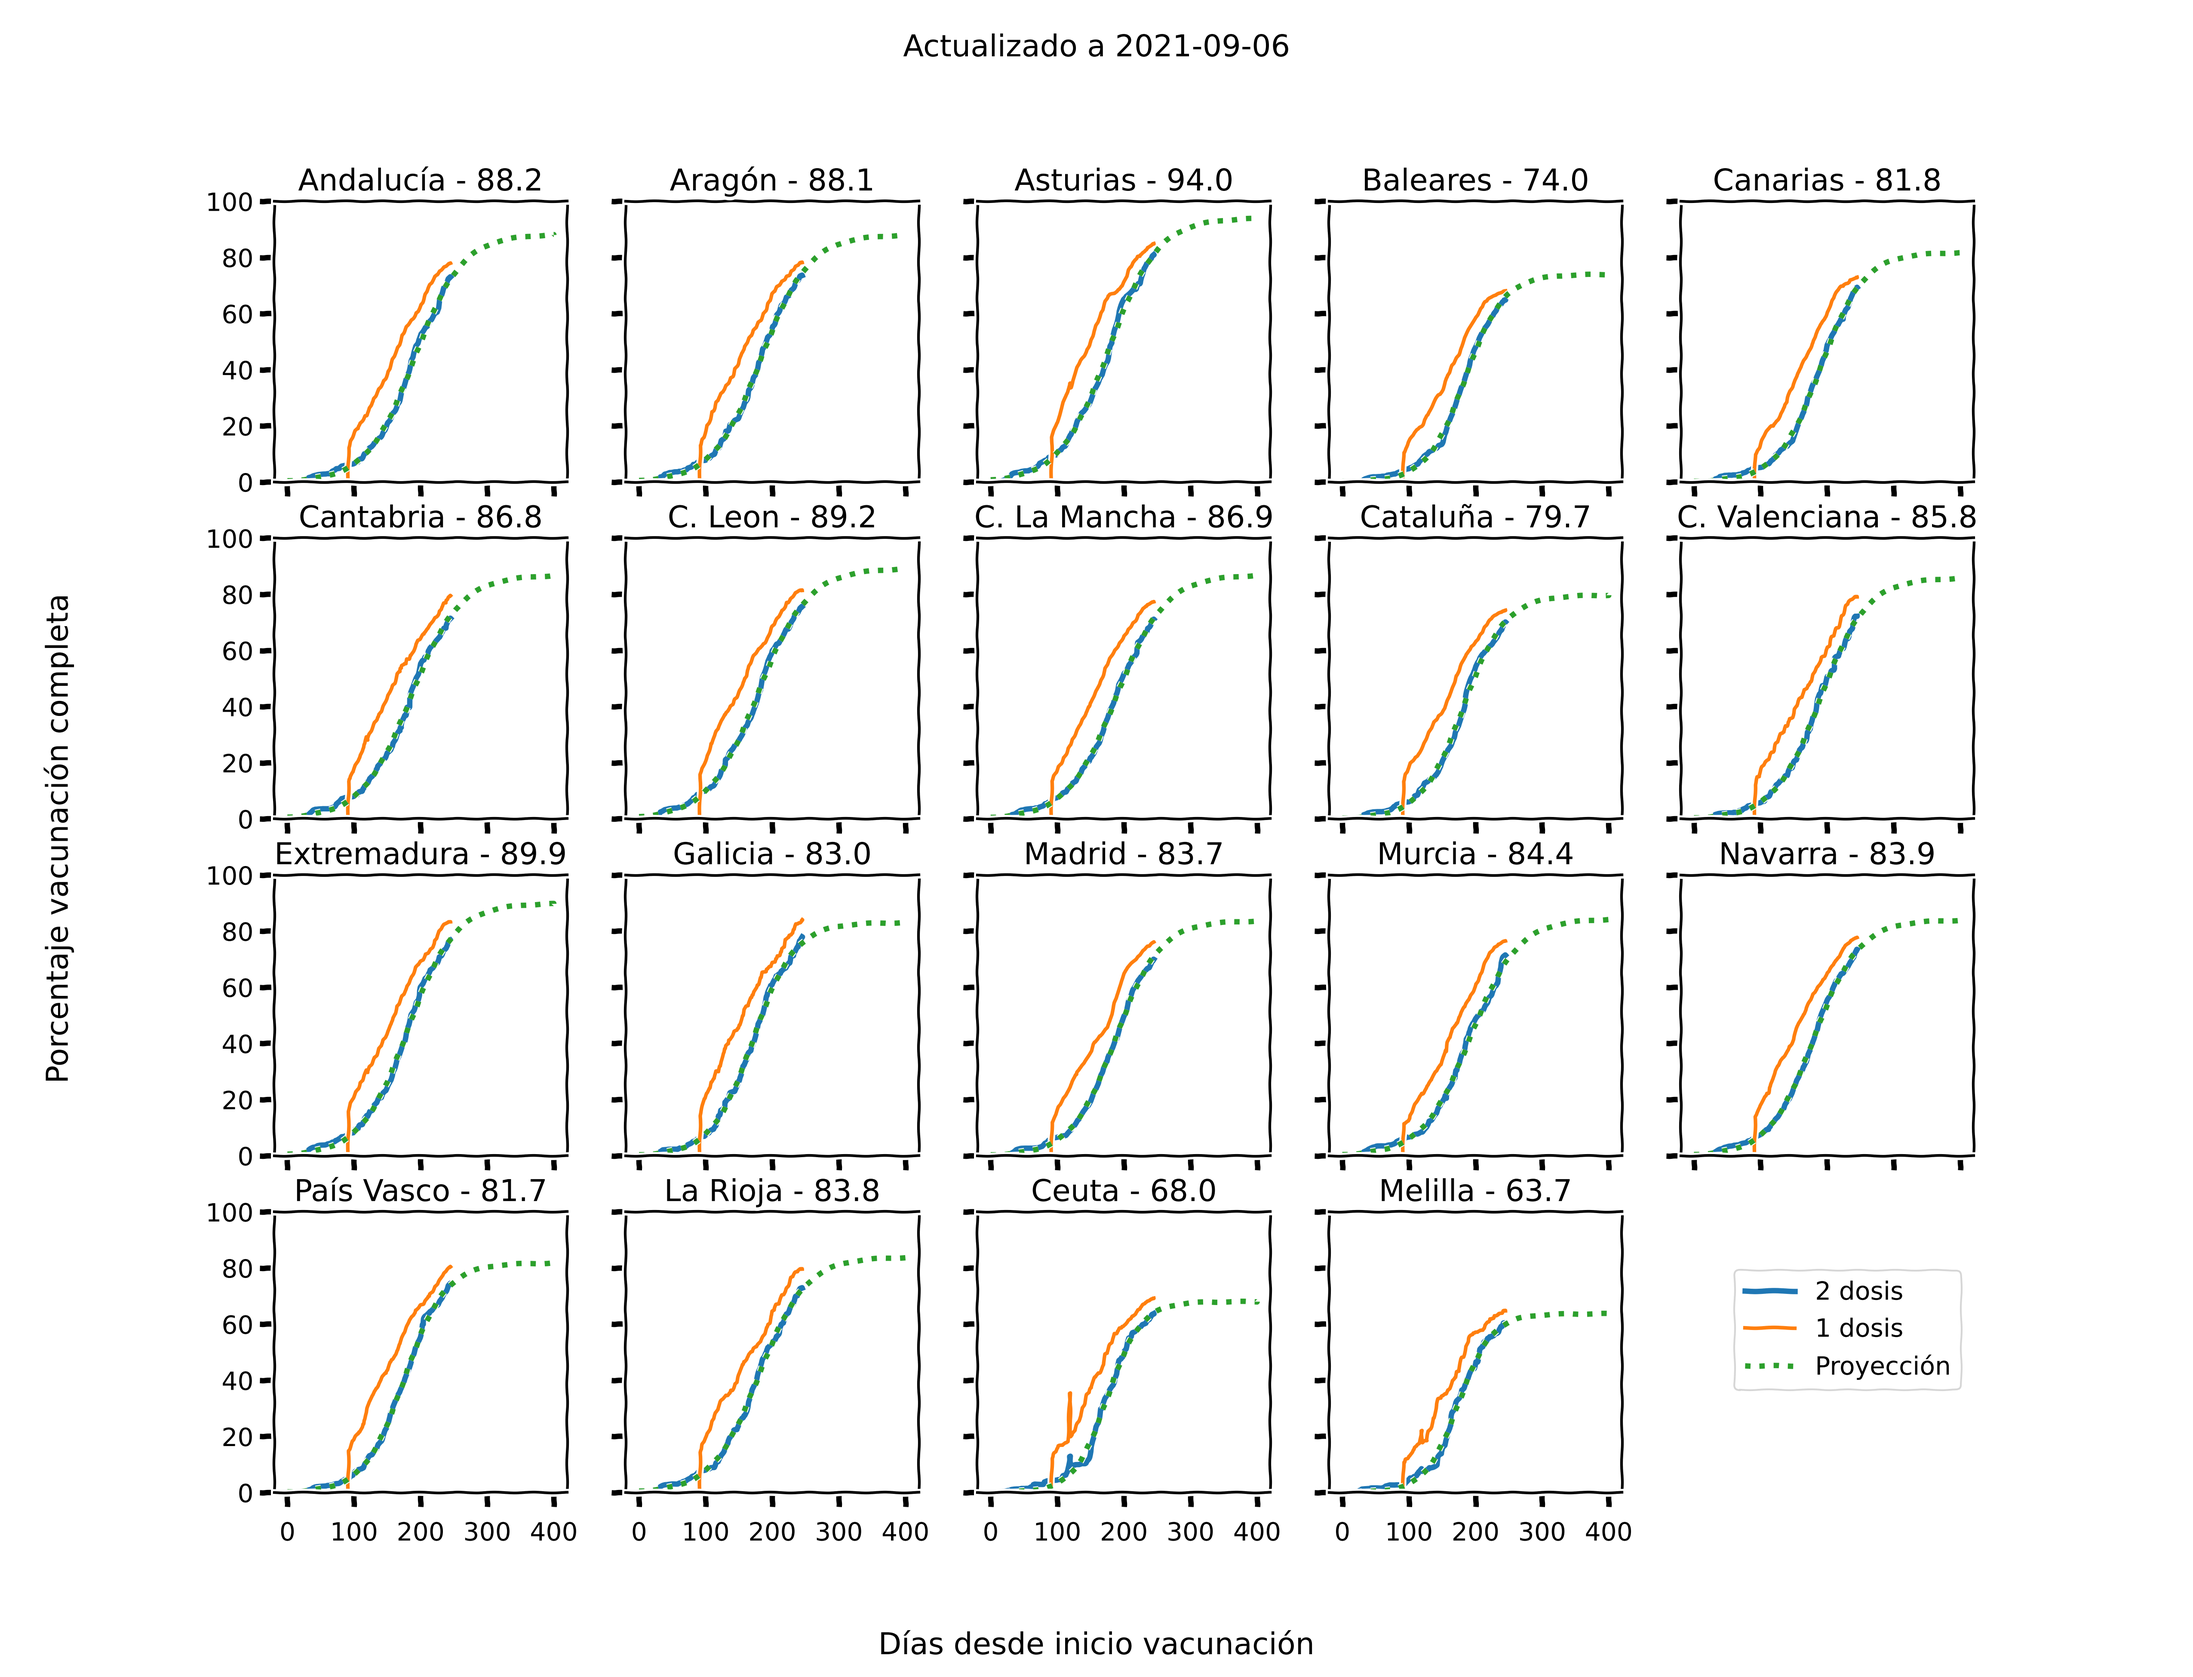
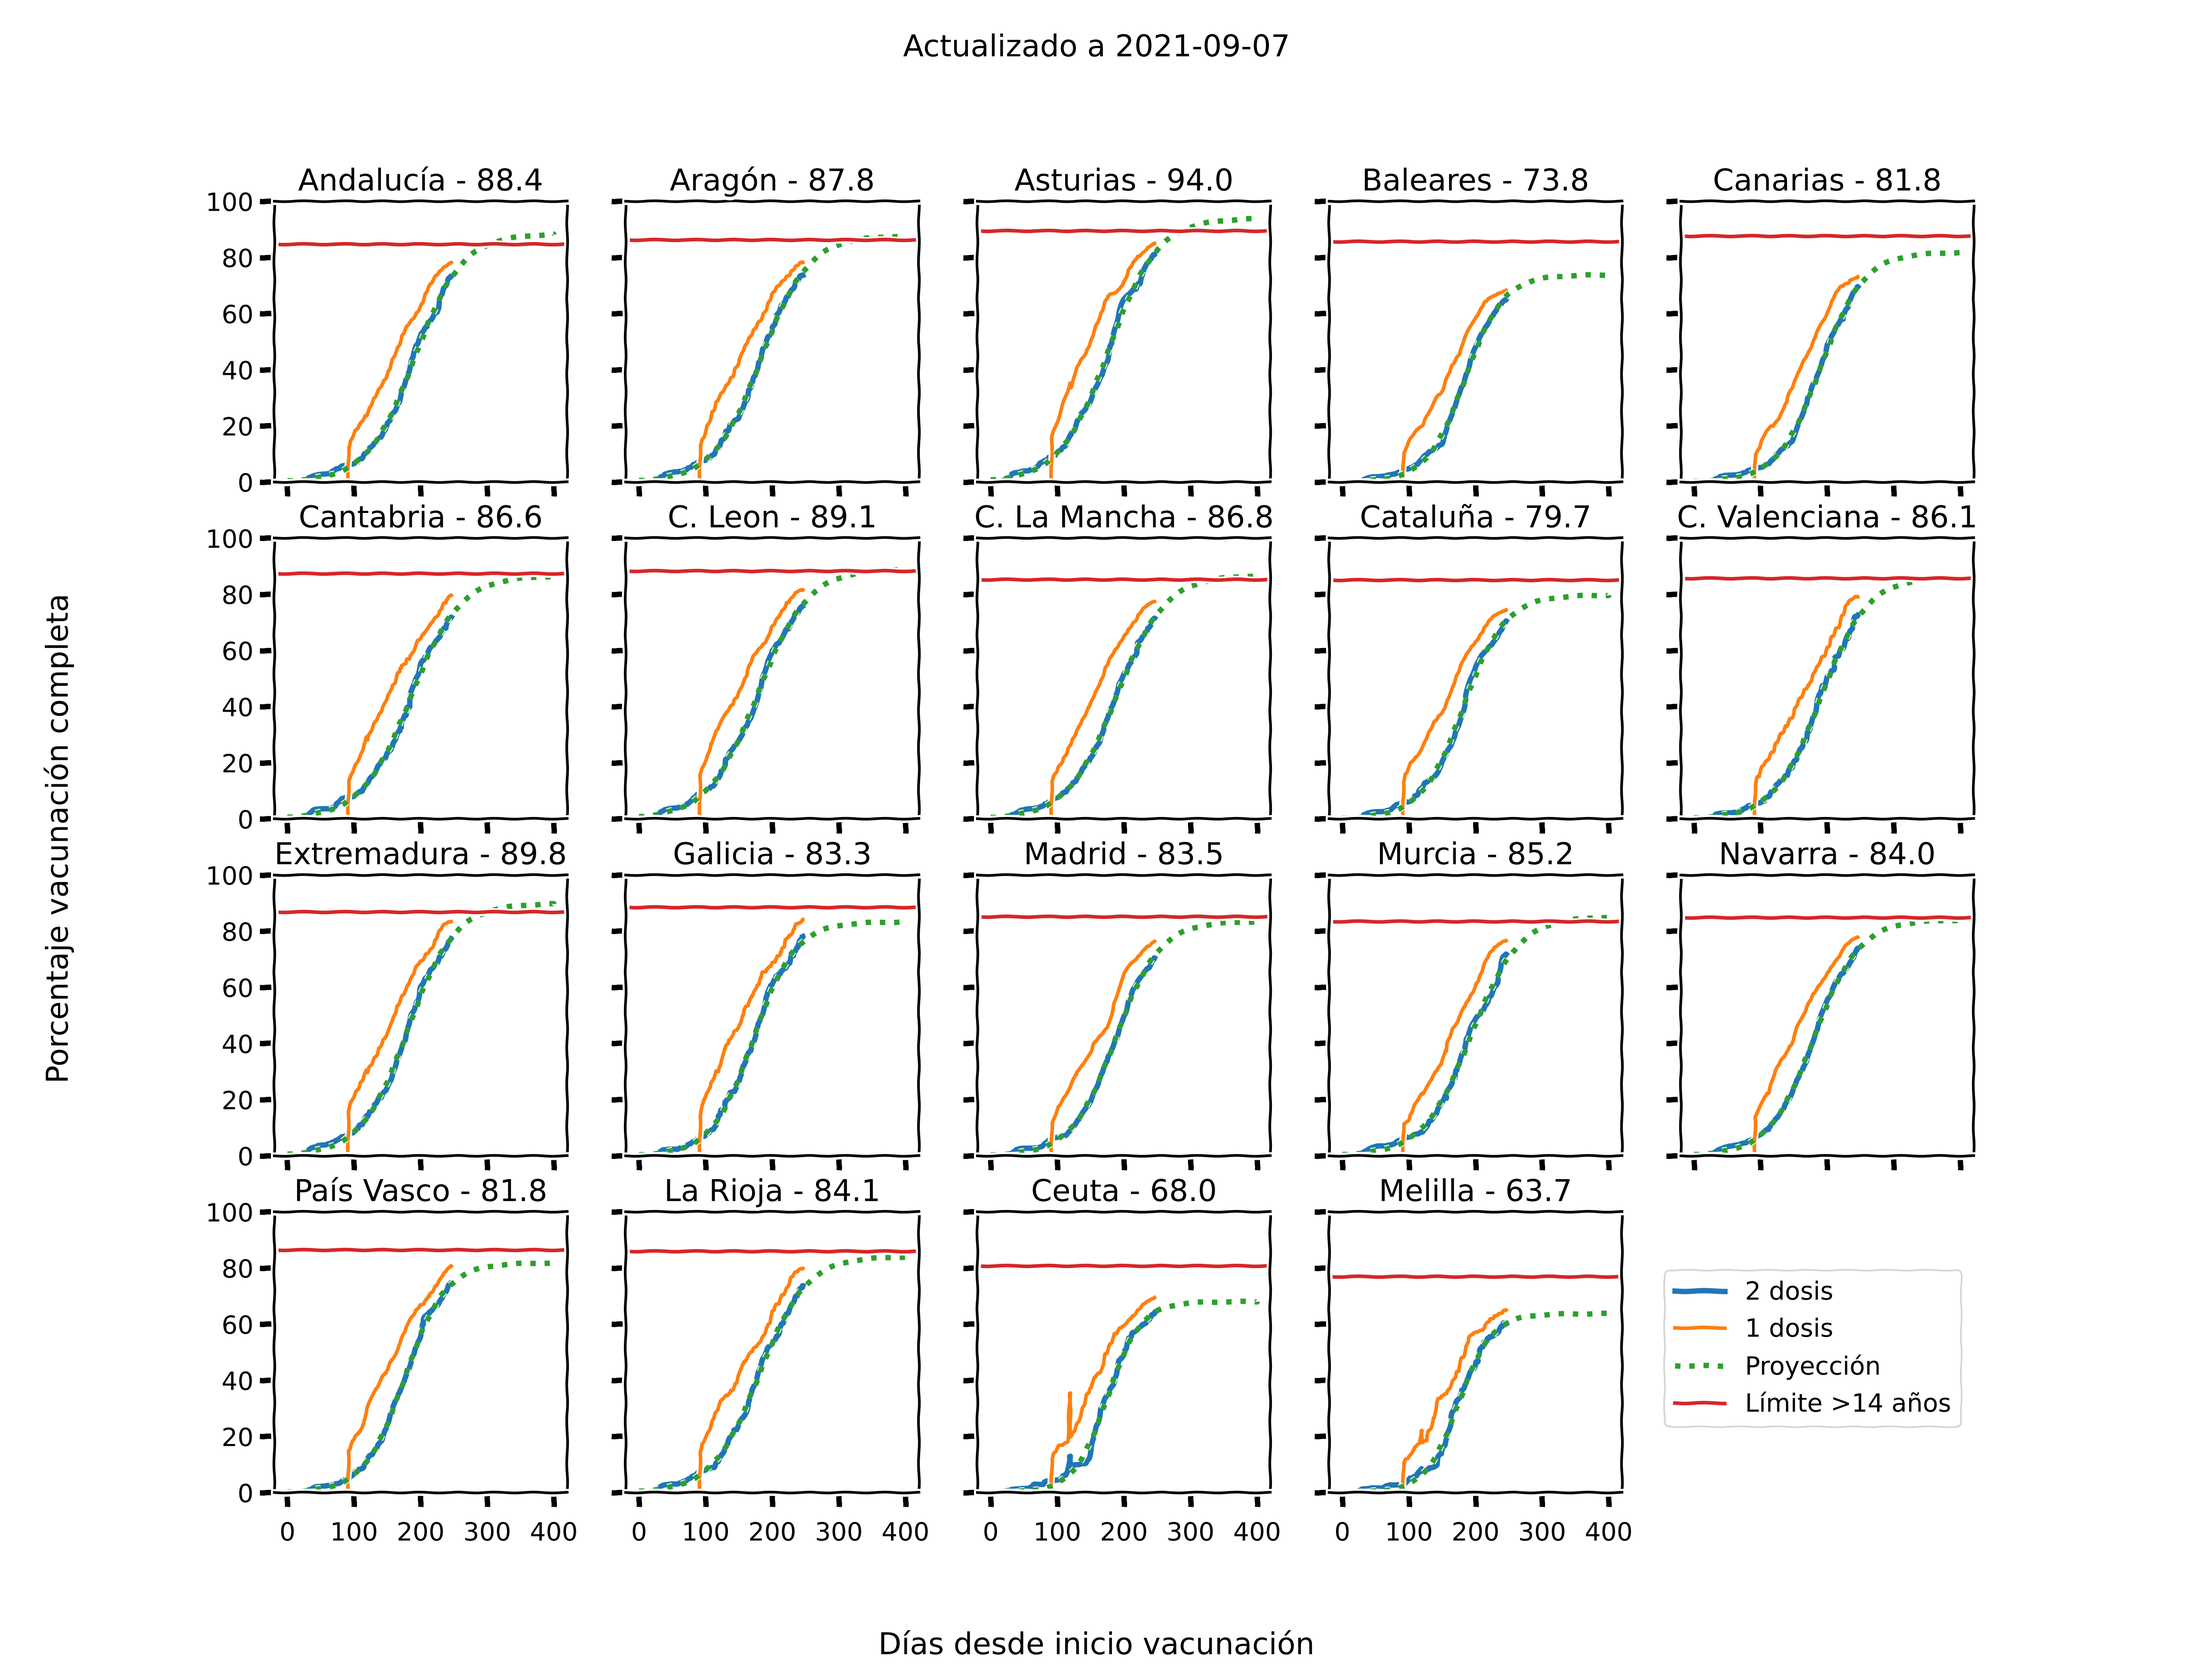
Added >14 years

diff --git a/vacunas.py b/vacunas.py
@@ -19,6 +19,8 @@ if __name__ == '__main__':
     values = tmp.loc[tmp['cod_ine'] == 1]['Fecha publicación'].values    
     last_day = datetime.datetime.strptime(values[-1], '%Y-%m-%d')
     now = datetime.datetime.now()
+
+    menores_14 = [15.25, 13.76, 10.64, 14.38, 12.45, 12.70, 11.66, 14.74, 14.98, 14.36, 13.28, 11.55, 14.89, 16.63, 15.14, 13.61, 14.14, 19.30, 23.13]
         
 
     pct_completa = []
@@ -65,13 +67,15 @@ if __name__ == '__main__':
             y_fit = f(days_full / 100.0, a_, c_, d_)
 
             if (i == 0):            
-                ax.flat[i].plot(days[i], pct_completa[i], linewidth=3, label='2 dosis')
-                ax.flat[i].plot(days[i], pct_unadosis[i], label='1 dosis')            
-                ax.flat[i].plot(days_full, y_fit * 100.0, ':', linewidth=3, label='Proyección')
+                ax.flat[i].plot(days[i], pct_completa[i], linewidth=3, label='2 dosis', color='C0')
+                ax.flat[i].plot(days[i], pct_unadosis[i], label='1 dosis', color='C1')            
+                ax.flat[i].plot(days_full, y_fit * 100.0, ':', linewidth=3, label='Proyección', color='C2')
+                ax.flat[i].axhline(100-menores_14[i], label='Límite >14 años', color='C3')
             else:
-                ax.flat[i].plot(days[i], pct_completa[i], linewidth=3)
-                ax.flat[i].plot(days[i], pct_unadosis[i])
-                ax.flat[i].plot(days_full, y_fit * 100.0, ':', linewidth=3)
+                ax.flat[i].plot(days[i], pct_completa[i], linewidth=3, color='C0')
+                ax.flat[i].plot(days[i], pct_unadosis[i], color='C1')
+                ax.flat[i].plot(days_full, y_fit * 100.0, ':', linewidth=3, color='C2')
+                ax.flat[i].axhline(100-menores_14[i], color='C3')
 
             ax.flat[i].set_ylim([0, 100])            
 
